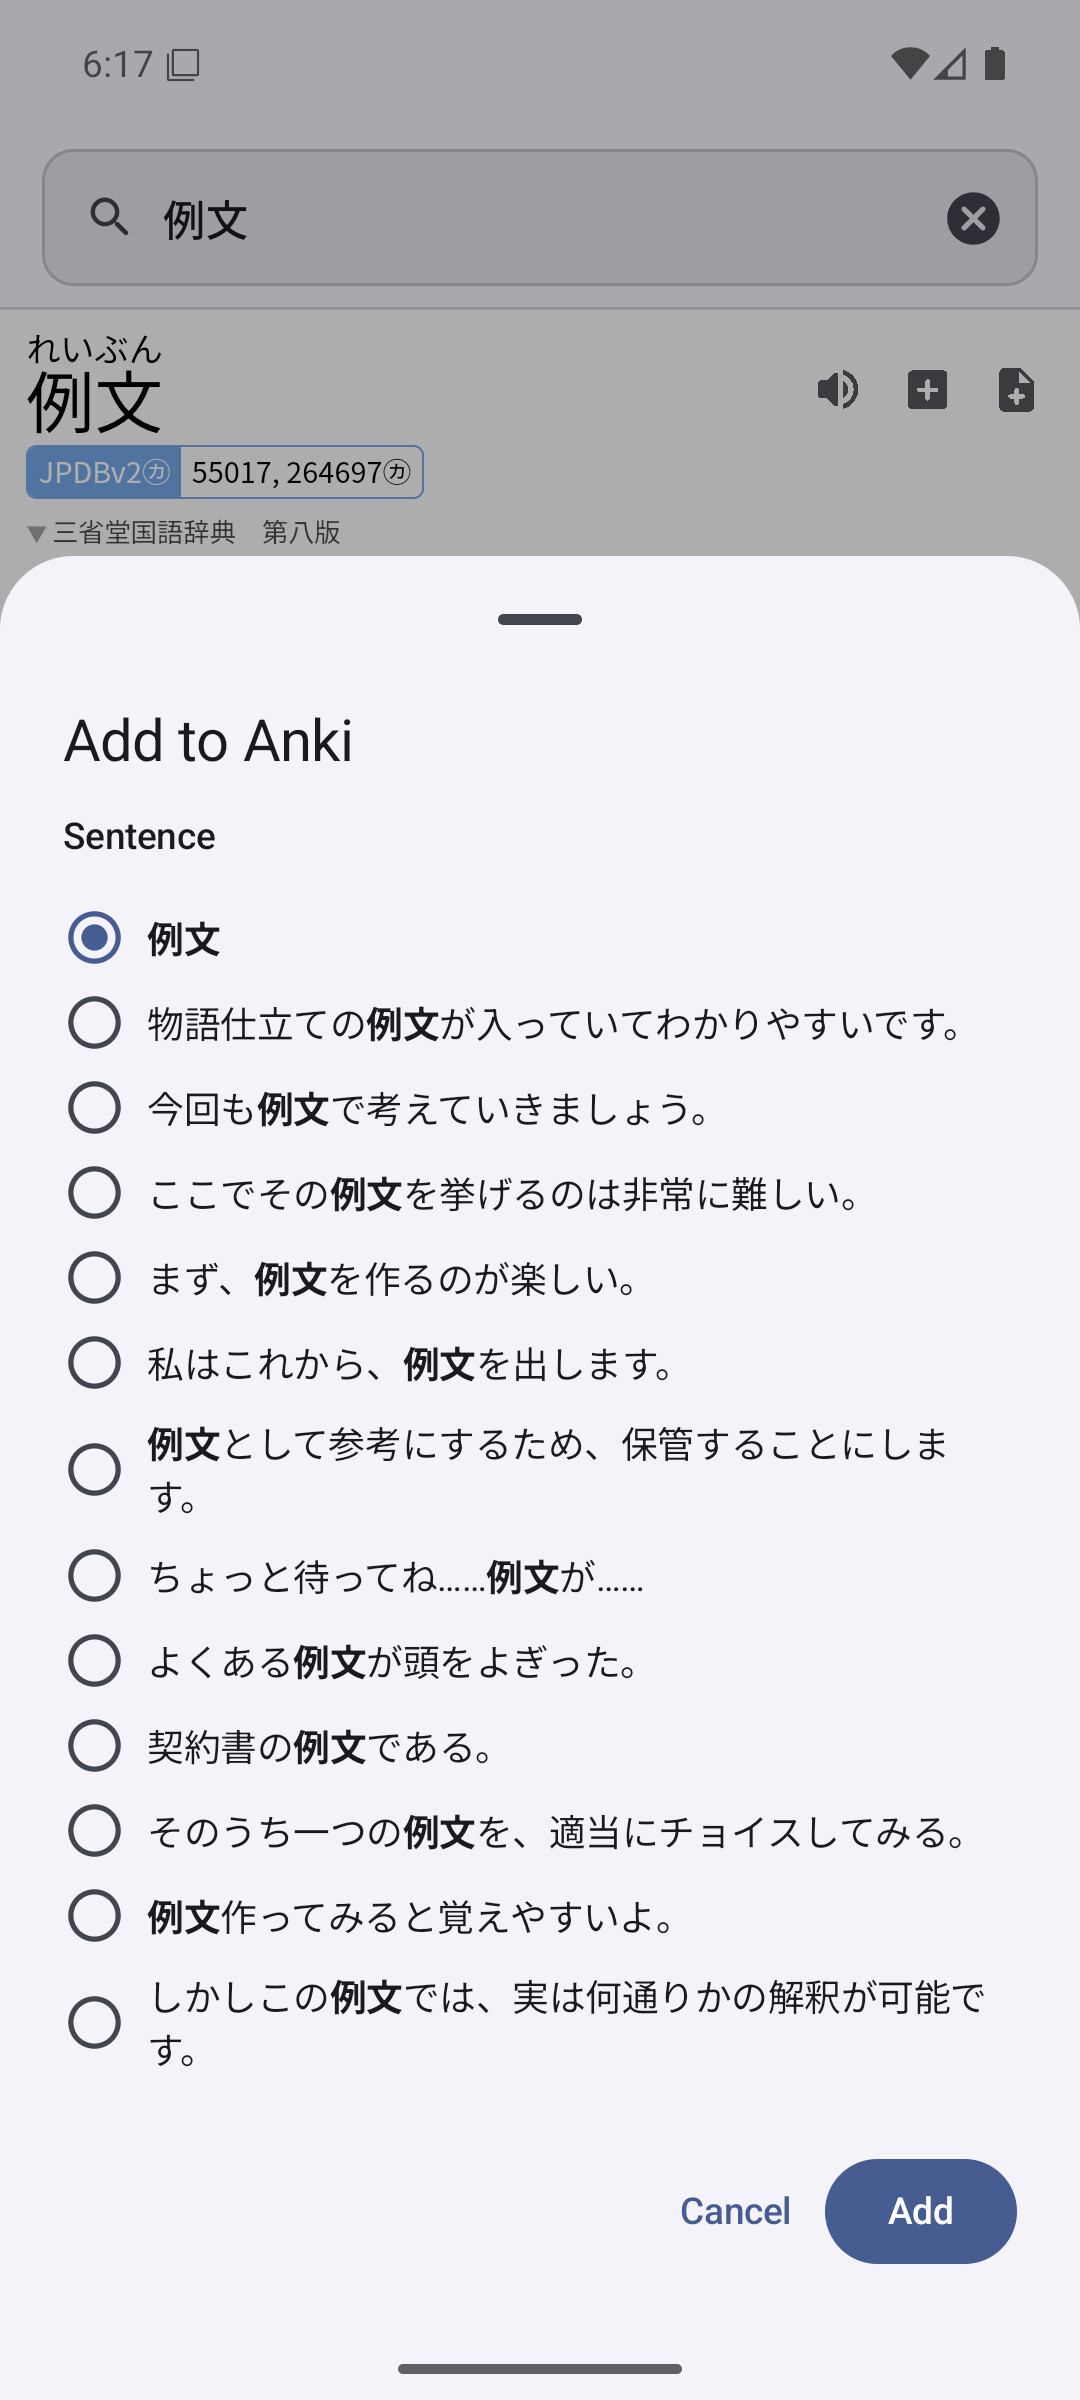
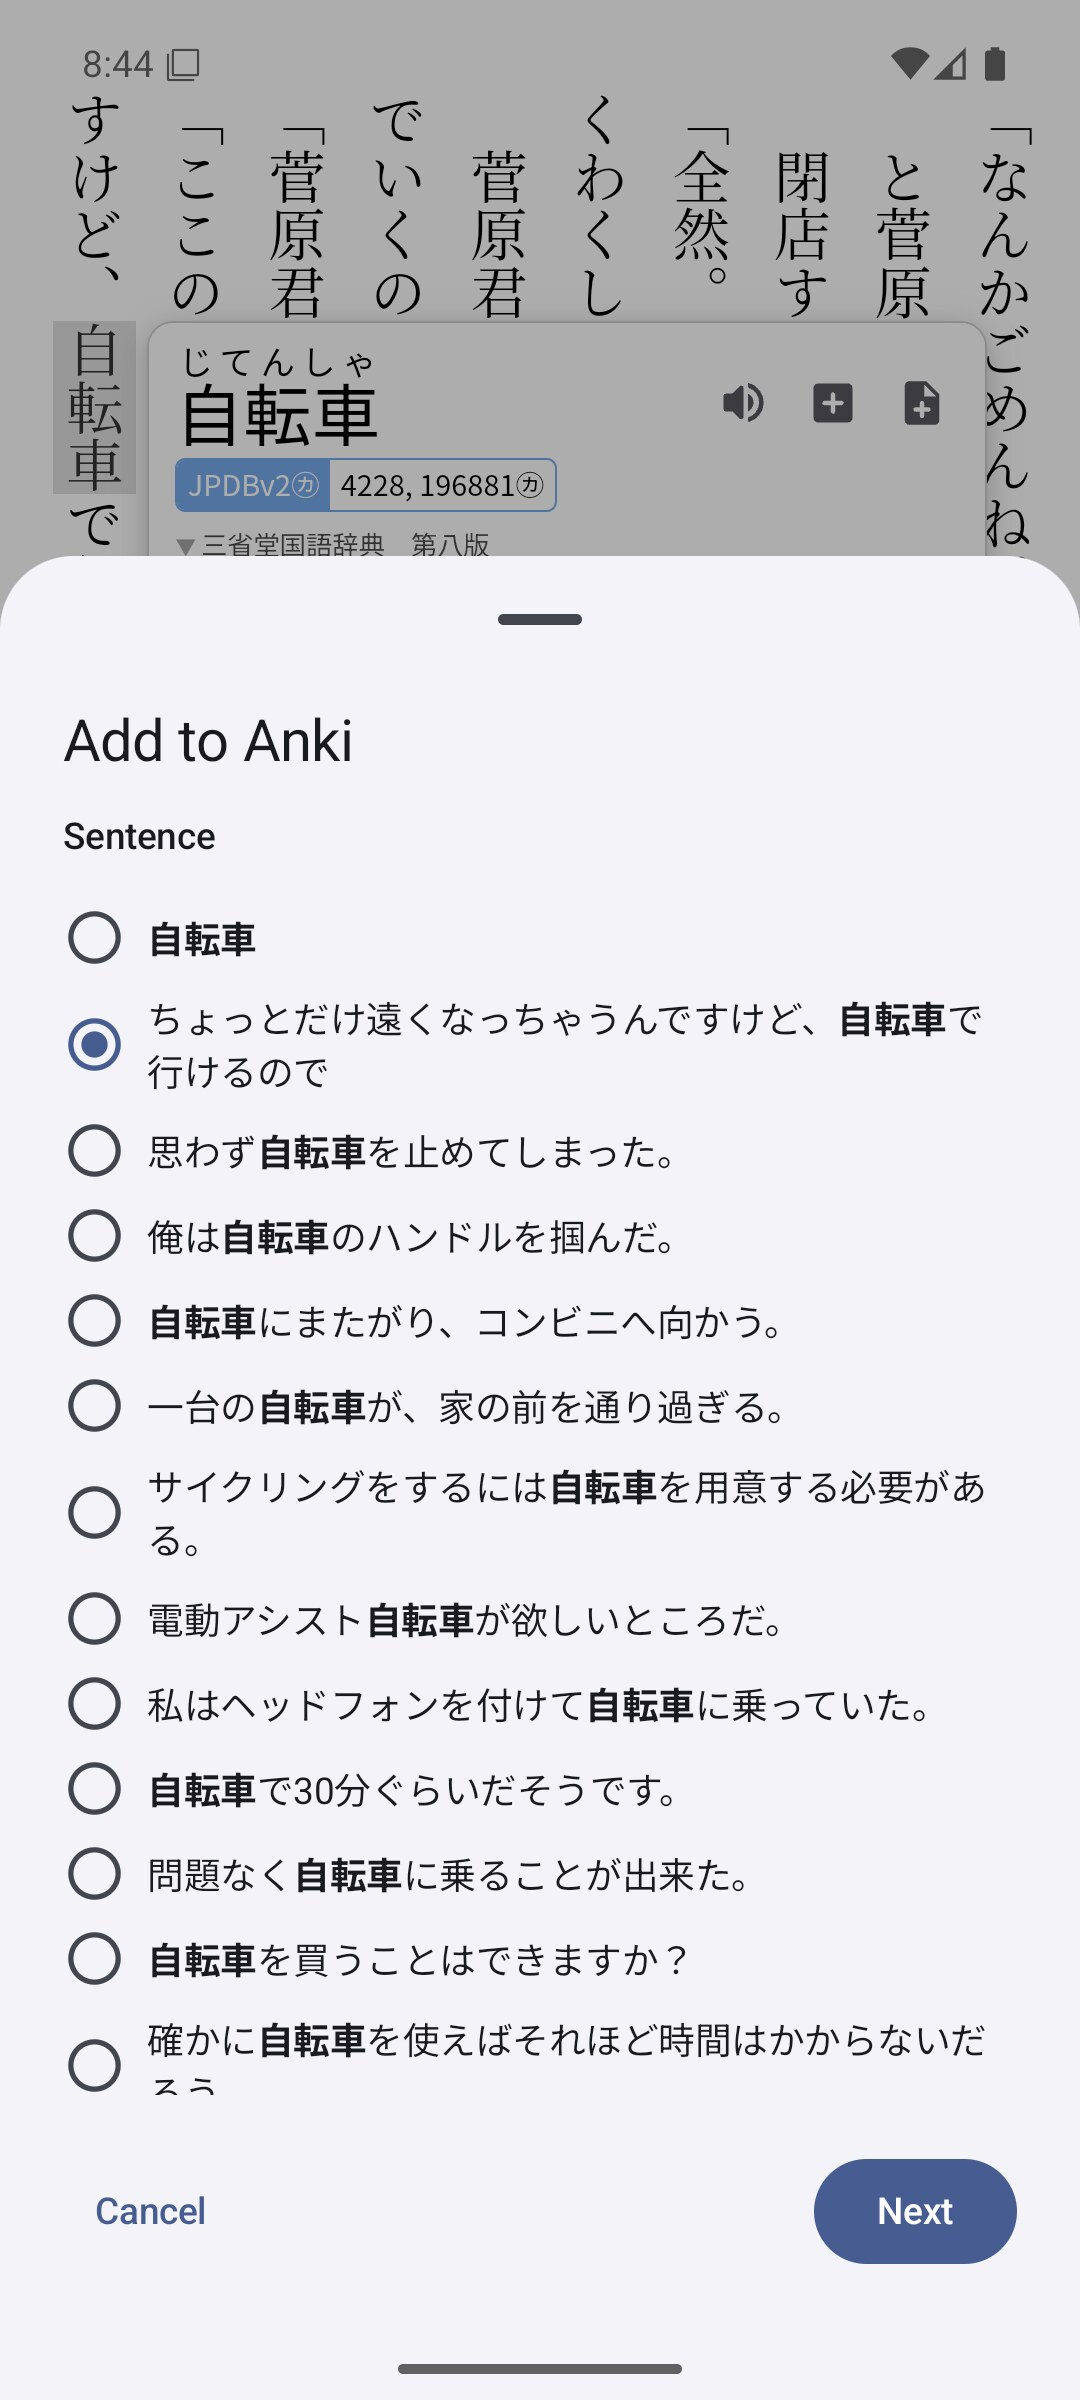
chore(release): v1.3.0
Finalize the About-this-fork README screenshots (example-sentence picker and
web-image picker, both using 自転車).

diff --git a/README.md b/README.md
@@ -1,18 +1,22 @@
 ## About this fork
 
-This is a personal fork of [Hoshi Reader Android](https://github.com/HuangAntimony/Hoshi-Reader-Android) that tracks upstream closely while adding a few mining-focused extras.
+A personal fork of [Hoshi Reader Android](https://github.com/HuangAntimony/Hoshi-Reader-Android). It tracks upstream closely and adds a couple of Anki mining extras.
 
-The main addition is a separate card-creation button that lets you pick a [Massif](https://massif.la) example sentence when adding an Anki card.
+It adds a **Mine with options** button next to the usual one-tap card button. Before the card is added, you pick its sentence and picture.
 
-<p align="center">
-  <img src="docs/images/readme/example-sentence-picker.jpg" alt="Example sentence picker showing Massif example sentences for 例文" width="300">
-</p>
-
-The same flow then searches Bing for example images of the term, so you can pick one for the card's picture field (the default is no image).
+**Pick a sentence** from [Massif](https://massif.la) examples:
 
 <p align="center">
-  <img src="docs/images/readme/mine-with-options-image-picker.jpg" alt="Web image picker showing Bing image results for 勉強" width="300">
+  <img src="docs/images/readme/example-sentence-picker.jpg" alt="Example sentence picker showing Massif examples for 自転車" width="300">
 </p>
+
+**Pick a picture** — the book cover (the default) or an image from Bing:
+
+<p align="center">
+  <img src="docs/images/readme/mine-with-options-image-picker.jpg" alt="Image picker with the book cover first and Bing results for 自転車" width="300">
+</p>
+
+<p align="center"><sub><i>The book cover is the default; here a Bing image is picked instead.</i></sub></p>
 
 <hr>
 

diff --git a/docs/CHANGELOG.md b/docs/CHANGELOG.md
@@ -71,8 +71,9 @@ Historical release notes before v1.1.0 live in [CHANGELOG_ARCHIVE.md](CHANGELOG_
 
 ### Added
 
-- Reader & dictionary "mine with options": a per-entry `＋…` button (next to the instant `＋`) to pick a Massif example sentence before adding an Anki card — available in the Dictionary tab, the in-book reader, and process-text lookup. The instant `＋` is unchanged.
-- "Mine with options" gains a second step: a Bing image search for the term with a thumbnail grid to pick an example image for the card's Picture field (`{web-image}` marker). The default is no image; the instant `＋` is unchanged. Existing setups can point Picture to `{web-image}` in Settings → Anki field mapping.
+- Add a "Mine with options" button to each dictionary entry — next to the existing one-tap "Add to Anki" — that opens a sheet to adjust a card before adding it. Available wherever lookups appear: the Dictionary tab, the in-book reader, and process-text lookup. One-tap "Add to Anki" is unchanged.
+- In that sheet, choose the card's Sentence from a list of Massif example sentences for the word, instead of the default in-book context line.
+- In that sheet, choose the card's Picture: none, the book cover (the default in the reader), or an image from a Bing search of the word shown as a thumbnail grid. The choice fills the Picture field through a single `{image}` marker (replacing the separate book-cover and web-image markers). Map Picture to `{image}` under Settings → Anki.
 
 ## [v1.2.1] - 2026-06-18
 
